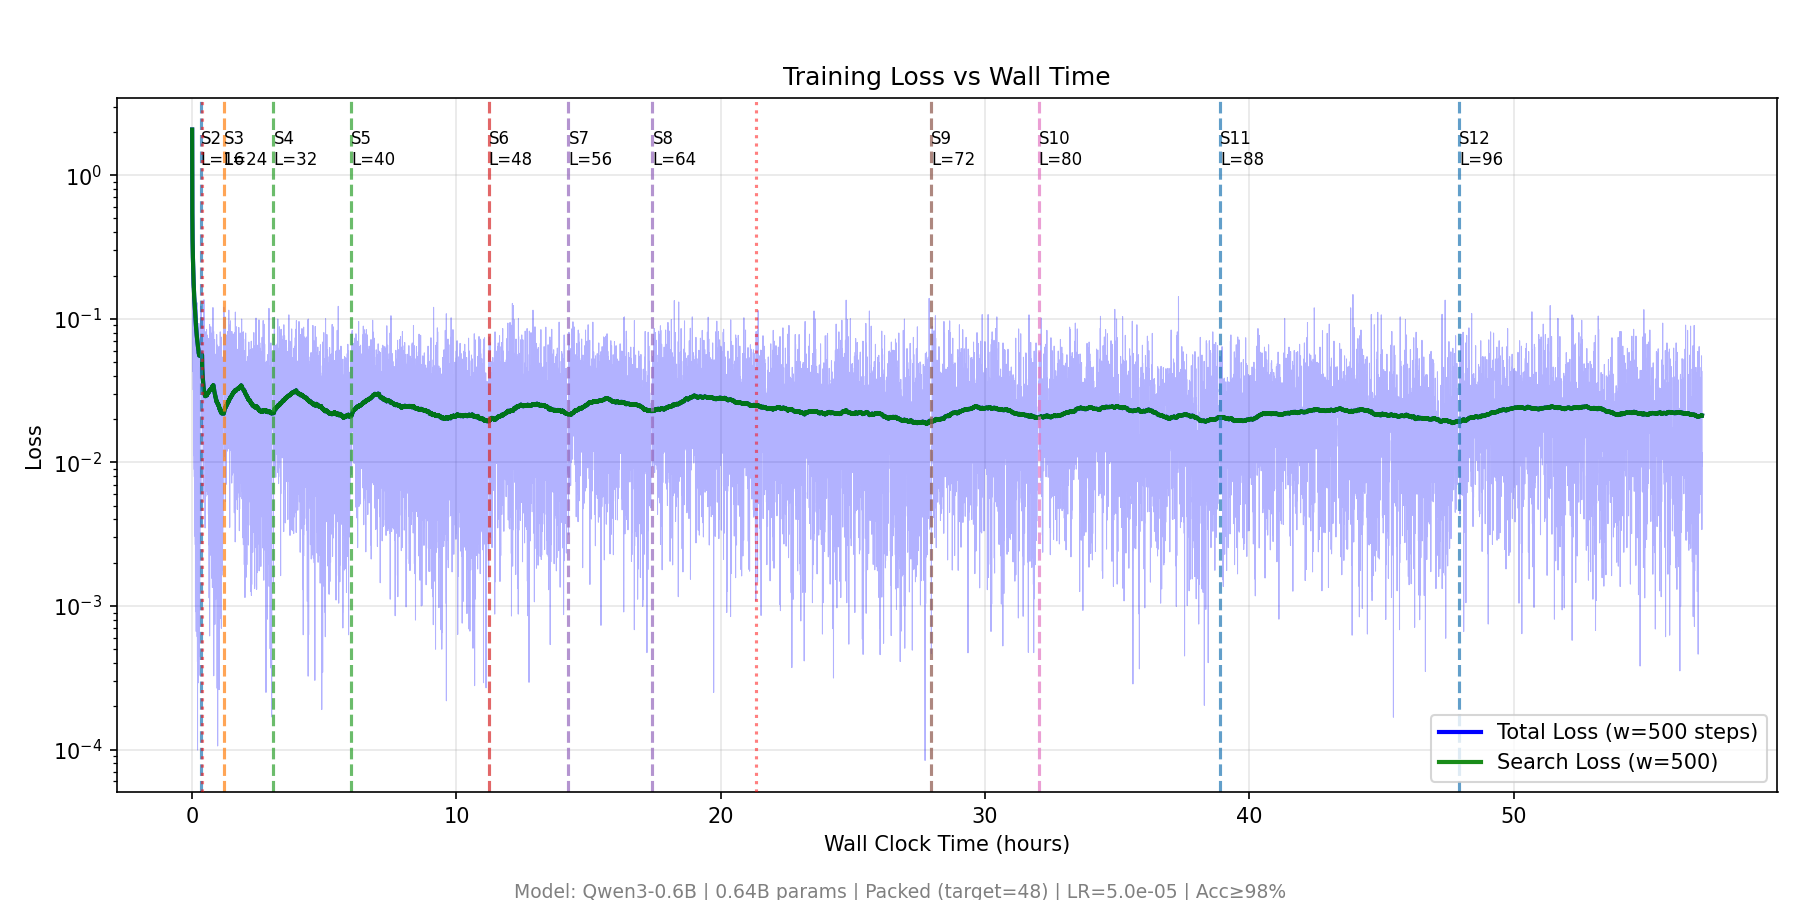
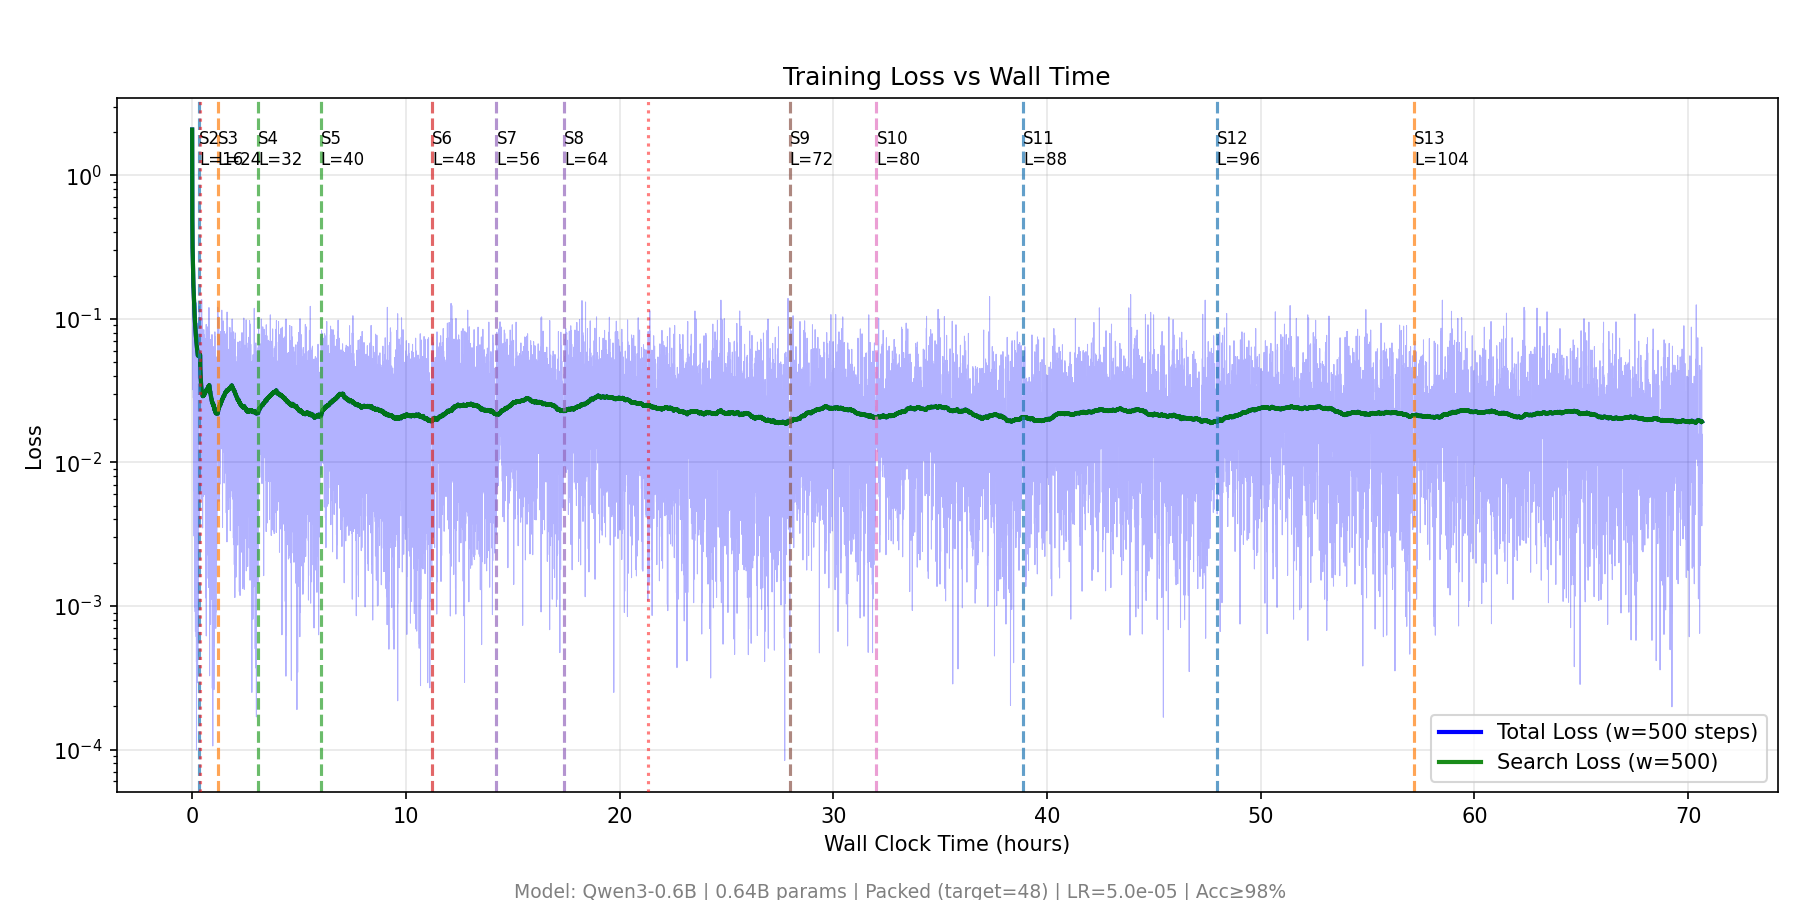
chore(exp1): sync live training telemetry and PROGRESS.md (2026-10-13 07:54 UTC - LoRA R=64 Stage 14)

diff --git a/PROGRESS.md b/PROGRESS.md
@@ -3,7 +3,7 @@
 **Base commit:** `da7b19c` (`main`)
 **Branch:** `jackierwzhang/exp1-qwen06b-lora-vs-fullft`
 **VMs:** `nl-exp1-spot-fullft` (`europe-west1-c`, deleted after completion), `nl-exp1-spot-r8` (`a3-highgpu-4g`, 4x H100-80GB Spot, `us-east4-a`), `nl-exp1-spot-r64` (`a3-highgpu-4g`, 4x H100-80GB Spot, `europe-west1-c`), `nl-exp1-spot-r256` (`a3-highgpu-4g`, 4x H100-80GB Spot, `us-east4-b`)
-**Last updated:** 2026-10-13 07:36 UTC
+**Last updated:** 2026-10-13 07:54 UTC
 
 ## Shared Configuration
 
@@ -26,11 +26,11 @@
 | Arm | Job ID | Mode | GPUs | Status | Step | Stage / $L$ | Rolling Full Acc | Rolling First Acc | Loss | PFLOPs | TFLOP/s | Wall Time | Est. Remaining |
 | :--- | :--- | :--- | :--- | :--- | ---: | :--- | ---: | ---: | ---: | ---: | ---: | ---: | :--- |
 | Full-FT | `exp1_qwen06b_fullft` | Full FT | 0,1,2,3 (Spot 4x H100: nl-exp1-spot-fullft, europe-west1-c) | Completed | 27570 | 16 (`L=128`) | 97.62% | 98.88% | 0.0163 | 116023.73 | 405.3 | 71.26h | 0.0h (Done) |
-| LoRA `R=8` | `exp1_qwen06b_lora_r8` | `--use_lora --lora_rank 8` (`alpha=16, dropout=0.1`) | 0,1,2,3 (Spot 4x H100: nl-exp1-spot-r8, us-east4-a) | Running | 30730 | 12 (`L=96`) | 96.62% | 97.88% | 0.0203 | 88095.87 | 238.9 | 77.52h | ~59.3h (stage-wt) / ~0.0h (82k PFLOPs ref) |
-| LoRA `R=64` | `exp1_qwen06b_lora_r64` | `--use_lora --lora_rank 64` (`alpha=128, dropout=0.1`) | 0,1,2,3 (Spot 4x H100: nl-exp1-spot-r64, europe-west1-c) | Running | 22090 | 13 (`L=104`) | 97.25% | 98.38% | 0.0212 | 75951.94 | 223.3 | 70.48h | ~36.1h (stage-wt) / ~5.6h (82k PFLOPs ref) |
-| LoRA `R=256` | `exp1_qwen06b_lora_r256` | `--use_lora --lora_rank 256` (`alpha=512, dropout=0.1`) | 0,1,2,3 (Spot 4x H100: nl-exp1-spot-r256, us-east4-b) | Running | 22680 | 9 (`L=72`) | 95.62% | 97.00% | 0.0276 | 58814.28 | 161.2 | 75.91h | ~157.2h (stage-wt) / ~29.9h (82k PFLOPs ref) |
+| LoRA `R=8` | `exp1_qwen06b_lora_r8` | `--use_lora --lora_rank 8` (`alpha=16, dropout=0.1`) | 0,1,2,3 (Spot 4x H100: nl-exp1-spot-r8, us-east4-a) | Running | 30790 | 12 (`L=96`) | 95.75% | 97.12% | 0.0219 | 88402.49 | 239.7 | 77.78h | ~59.5h (stage-wt) / ~0.0h (82k PFLOPs ref) |
+| LoRA `R=64` | `exp1_qwen06b_lora_r64` | `--use_lora --lora_rank 64` (`alpha=128, dropout=0.1`) | 0,1,2,3 (Spot 4x H100: nl-exp1-spot-r64, europe-west1-c) | Running | 22140 | 14 (`L=112`) | 96.50% | 97.75% | 0.0191 | 76234.20 | 224.7 | 70.80h | ~33.8h (stage-wt) / ~5.4h (82k PFLOPs ref) |
+| LoRA `R=256` | `exp1_qwen06b_lora_r256` | `--use_lora --lora_rank 256` (`alpha=512, dropout=0.1`) | 0,1,2,3 (Spot 4x H100: nl-exp1-spot-r256, us-east4-b) | Running | 22740 | 9 (`L=72`) | 94.50% | 97.25% | 0.0238 | 59047.36 | 161.7 | 76.21h | ~157.9h (stage-wt) / ~29.6h (82k PFLOPs ref) |
 
-> **ETA Methodology & Overall Experiment 1 Completion (3 Active Arms on 12x Spot H100; Full-FT Completed):** `stage-wt` scales current wall time by remaining lookahead units ($\sum_{k=1}^{16} k = 136$); `82k PFLOPs ref` divides remaining compute against the collaborator's `Qwen3-0.6B` `step=8` cold-start reference (`82,000 PFLOPs` to `L=128`) by the arm's measured `PFLOPs/h` rate. Next arm completion is estimated in **~36.1h (stage-wt) / ~0.0h (82k PFLOPs ref)**; full 4-arm concurrent completion is bounded by the slowest arm at **~157.2h (stage-wt) to ~29.9h (82k PFLOPs ref)**.
+> **ETA Methodology & Overall Experiment 1 Completion (3 Active Arms on 12x Spot H100; Full-FT Completed):** `stage-wt` scales current wall time by remaining lookahead units ($\sum_{k=1}^{16} k = 136$); `82k PFLOPs ref` divides remaining compute against the collaborator's `Qwen3-0.6B` `step=8` cold-start reference (`82,000 PFLOPs` to `L=128`) by the arm's measured `PFLOPs/h` rate. Next arm completion is estimated in **~33.8h (stage-wt) / ~0.0h (82k PFLOPs ref)**; full 4-arm concurrent completion is bounded by the slowest arm at **~157.9h (stage-wt) to ~29.6h (82k PFLOPs ref)**.
 
 ## Stage Evaluation Summary (`stage_eval_history.json`)
 
@@ -75,6 +75,7 @@
 | LoRA `R=64` | 10 | 15450 | 80 | 0.634 | 0.1018 | 86.40% | 86.20% | 98.20% | 98.00% |
 | LoRA `R=64` | 11 | 17525 | 88 | 0.697 | 0.0748 | 89.20% | 89.20% | 98.00% | 97.80% |
 | LoRA `R=64` | 12 | 19475 | 96 | 0.760 | 0.0578 | 94.40% | 94.40% | 98.60% | 98.60% |
+| LoRA `R=64` | 13 | 22125 | 104 | 0.823 | 0.0375 | 95.40% | 95.40% | 97.80% | 97.80% |
 | LoRA `R=256` | 1 | 300 | 8 | 0.067 | 0.5629 | 40.40% | 40.00% | 99.40% | 99.40% |
 | LoRA `R=256` | 2 | 1025 | 16 | 0.130 | 0.4768 | 43.00% | 42.80% | 98.80% | 98.80% |
 | LoRA `R=256` | 3 | 3175 | 24 | 0.193 | 0.3778 | 51.60% | 50.60% | 97.80% | 97.80% |
